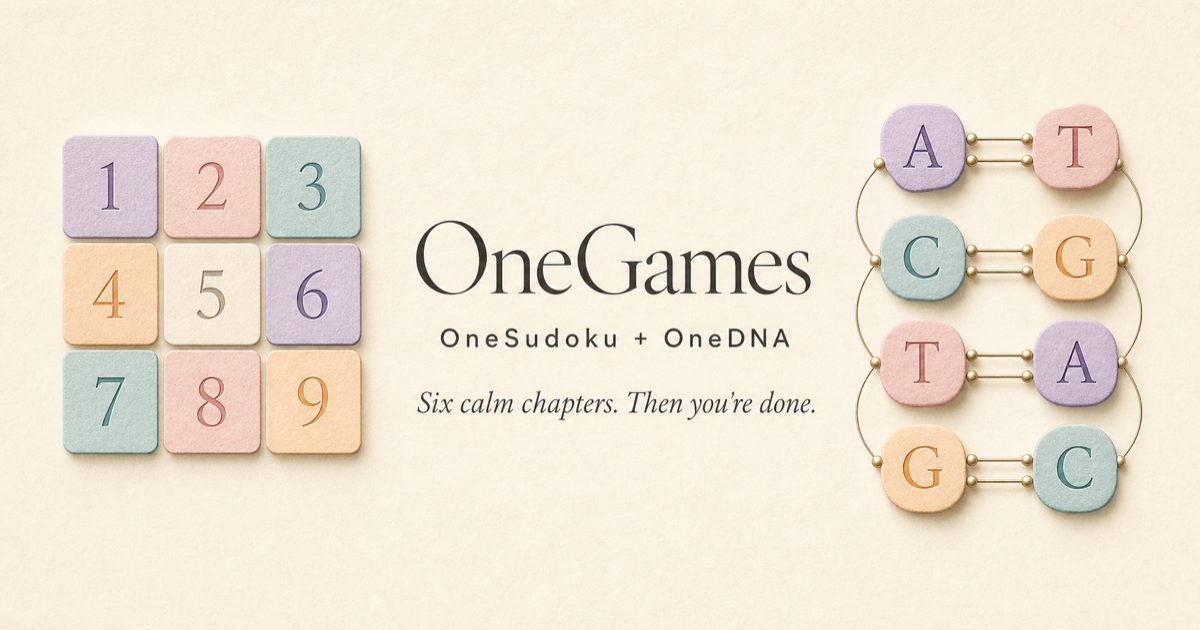
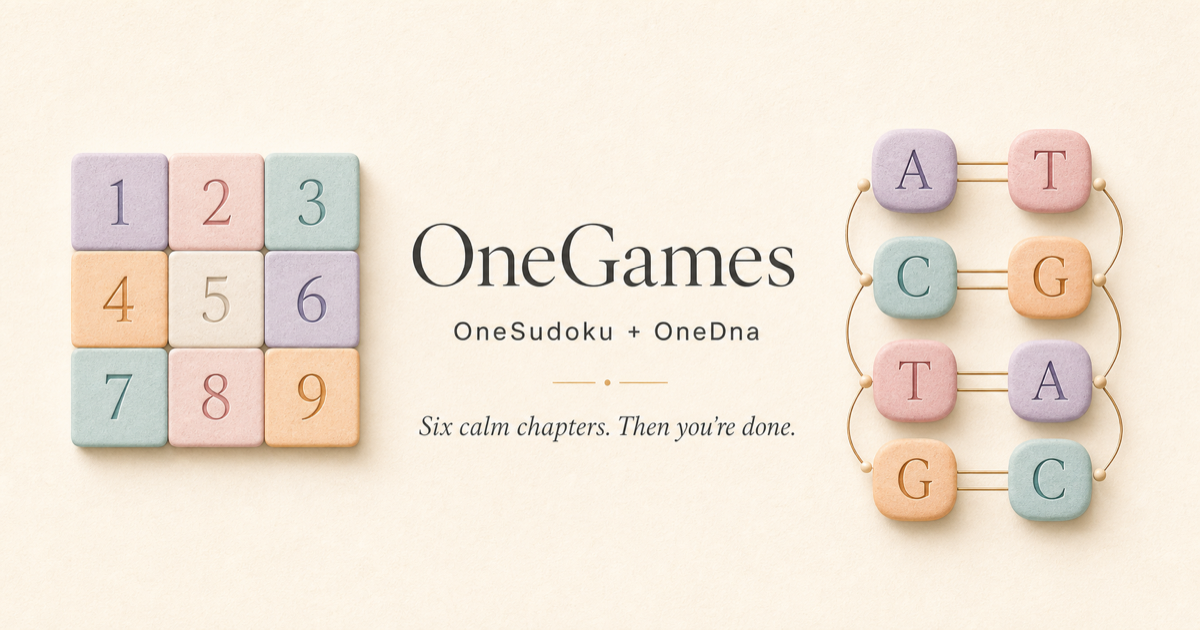
Rename OneDNA to OneDna

diff --git a/tests/dna-gameplay.spec.ts b/tests/dna-gameplay.spec.ts
@@ -12,11 +12,11 @@ test.beforeEach(async ({ page, context }) => {
   await page.goto("/dna");
 });
 
-test.describe("OneDNA game", () => {
+test.describe("OneDna game", () => {
   test("renders the 6x6 board and accessible bonds", async ({ page }) => {
-    await expect(page.getByRole("heading", { name: "OneDNA" })).toBeVisible();
+    await expect(page.getByRole("heading", { name: "OneDna" })).toBeVisible();
     await expect(
-      page.getByRole("grid", { name: "6 by 6 OneDNA board" }),
+      page.getByRole("grid", { name: "6 by 6 OneDna board" }),
     ).toBeVisible();
     await expect(page.locator("[data-cell]")).toHaveCount(36);
     await expect(page.locator(".dna-bonds path")).toHaveCount(5);
@@ -30,7 +30,7 @@ test.describe("OneDNA game", () => {
   test("renders Hard at 8x8 without horizontal overflow", async ({ page }) => {
     await page.getByRole("button", { name: "hard", exact: true }).click();
     await expect(
-      page.getByRole("grid", { name: "8 by 8 OneDNA board" }),
+      page.getByRole("grid", { name: "8 by 8 OneDna board" }),
     ).toBeVisible();
     await expect(page.locator("[data-cell]")).toHaveCount(64);
     expect(
@@ -121,7 +121,7 @@ test.describe("OneDNA game", () => {
     const index = Number(await empty.getAttribute("data-cell"));
     await empty.click();
     await page.keyboard.press("A");
-    await page.getByRole("button", { name: "Open OneDNA settings" }).click();
+    await page.getByRole("button", { name: "Open OneDna settings" }).click();
     await page.getByRole("switch", { name: "Reduce motion" }).click();
     await page.getByRole("button", { name: "Close settings" }).click();
     await page.reload();
@@ -194,8 +194,8 @@ test("the DNA access path returns to DNA", async ({ page, context }) => {
   await expect(page).toHaveURL(/\/dna$/);
 });
 
-test("homepage links directly to OneDNA", async ({ page }) => {
+test("homepage links directly to OneDna", async ({ page }) => {
   await page.goto("/");
-  await page.getByRole("link", { name: "Play OneDNA" }).click();
+  await page.getByRole("link", { name: "Play OneDna" }).click();
   await expect(page).toHaveURL(/\/dna/);
 });

diff --git a/components/dna/DnaGame.tsx b/components/dna/DnaGame.tsx
@@ -59,7 +59,7 @@ export function DnaGame({
   if (!game.hydrated)
     return (
       <main className="game-loading">
-        <span>OneDNA</span>
+        <span>OneDna</span>
         <p>Preparing today’s sequence…</p>
       </main>
     );
@@ -75,7 +75,7 @@ export function DnaGame({
             className="quiet-icon-link"
             type="button"
             onClick={() => setSettingsOpen(true)}
-            aria-label="Open OneDNA settings"
+            aria-label="Open OneDna settings"
           >
             <svg
               width="18"
@@ -107,7 +107,7 @@ export function DnaGame({
             <GameLogo game="dna" size={52} decorative />
             <div>
               <p className="caption">Daily puzzle · {formatLongDate(date)}</p>
-              <h1>OneDNA</h1>
+              <h1>OneDna</h1>
               <p className="dna-title-note">Find every perfect pair.</p>
             </div>
           </div>
@@ -145,7 +145,7 @@ export function DnaGame({
             {game.game.board.filter(Boolean).length}/{game.puzzle.size ** 2}
           </span>
         </div>
-        <section className="dna-rule-legend" aria-label="OneDNA rules">
+        <section className="dna-rule-legend" aria-label="OneDna rules">
           <span className="dna-rule-pairs">
             <i className="family-at" /> A–T <b>+</b> <i className="family-cg" />{" "}
             C–G balance
@@ -205,7 +205,7 @@ export function DnaGame({
         <p className="sr-only" aria-live="polite">
           {game.announcement}
         </p>
-        <nav className="game-subnav" aria-label="OneDNA navigation">
+        <nav className="game-subnav" aria-label="OneDna navigation">
           <Link href="/dna/archive">Archive</Link>
           <button type="button" onClick={() => setTutorialOpen(true)}>
             Rules

diff --git a/components/dna/DnaSettingsPanel.tsx b/components/dna/DnaSettingsPanel.tsx
@@ -31,7 +31,7 @@ export function DnaSettingsPanel({
         className="dna-modal settings-modal"
         role="dialog"
         aria-modal="true"
-        aria-label="OneDNA settings"
+        aria-label="OneDna settings"
       >
         <button
           className="modal-close"
@@ -70,7 +70,7 @@ export function DnaSettingsPanel({
           className="setting-action"
           type="button"
           onClick={() => {
-            if (confirm("Reset this OneDNA puzzle?")) {
+            if (confirm("Reset this OneDna puzzle?")) {
               onReset();
               onClose();
             }
@@ -84,7 +84,7 @@ export function DnaSettingsPanel({
           onClick={() => {
             if (
               confirm(
-                "Reset all OneDNA saves, settings, and statistics on this device? Sudoku data will stay untouched.",
+                "Reset all OneDna saves, settings, and statistics on this device? Sudoku data will stay untouched.",
               )
             ) {
               onResetAll();
@@ -92,7 +92,7 @@ export function DnaSettingsPanel({
             }
           }}
         >
-          Reset all OneDNA data
+          Reset all OneDna data
         </button>
       </section>
     </div>

diff --git a/components/dna/DnaCompletionPanel.tsx b/components/dna/DnaCompletionPanel.tsx
@@ -21,7 +21,7 @@ export function DnaCompletionPanel({
 }) {
   const modalRef = useModalFocus(open, onClose);
   if (!open) return null;
-  const share = `OneDNA ${game.date}\n${game.difficulty[0].toUpperCase()}${game.difficulty.slice(1)} · ${game.size}×${game.size} · ${time(game.elapsed)}\n${"◇".repeat(bondCount)} · ${game.mistakes} mistake${game.mistakes === 1 ? "" : "s"} · ${game.hints} hint${game.hints === 1 ? "" : "s"}`;
+  const share = `OneDna ${game.date}\n${game.difficulty[0].toUpperCase()}${game.difficulty.slice(1)} · ${game.size}×${game.size} · ${time(game.elapsed)}\n${"◇".repeat(bondCount)} · ${game.mistakes} mistake${game.mistakes === 1 ? "" : "s"} · ${game.hints} hint${game.hints === 1 ? "" : "s"}`;
   return (
     <div className="modal-backdrop">
       <section

diff --git a/app/page.tsx b/app/page.tsx
@@ -42,7 +42,7 @@ export default function HomePage() {
 
           <p className="lede reveal-item reveal-item-3">
             A calm pastel number mosaic and a colorful pairing puzzle. Six daily
-            chapters across OneSudoku and OneDNA — then you&rsquo;re done.
+            chapters across OneSudoku and OneDna — then you&rsquo;re done.
           </p>
 
           <div className="cta-row reveal-item reveal-item-4">
@@ -51,7 +51,7 @@ export default function HomePage() {
               className="pill-primary"
               aria-label="Play OneGames"
             >
-              Play OneSudoku + OneDNA
+              Play OneSudoku + OneDna
             </Link>
             <p className="note">
               $1 / month · Every game included · Cancel anytime

diff --git a/app/pricing/page.tsx b/app/pricing/page.tsx
@@ -7,7 +7,7 @@ import { SiteHeader } from "@/components/SiteHeader";
 export const metadata: Metadata = {
   title: "Pricing",
   description:
-    "One $1 monthly membership for OneSudoku, OneDNA, and every game in the OneGames family.",
+    "One $1 monthly membership for OneSudoku, OneDna, and every game in the OneGames family.",
 };
 
 export default function PricingPage() {
@@ -20,7 +20,7 @@ export default function PricingPage() {
           <ProductPair />
           <h1 className="display display-sm">One membership. Every game.</h1>
           <p className="lede">
-            OneSudoku and OneDNA, together every day. No ads, bundles, or
+            OneSudoku and OneDna, together every day. No ads, bundles, or
             complicated plans.
           </p>
 

diff --git a/tests/dna-persistence.test.ts b/tests/dna-persistence.test.ts
@@ -46,7 +46,7 @@ function game(): DnaGameSave {
     future: [],
   };
 }
-describe("OneDNA persistence", () => {
+describe("OneDna persistence", () => {
   let store: Map<string, string>;
   beforeEach(() => {
     store = storage();
@@ -73,7 +73,7 @@ describe("OneDNA persistence", () => {
     clearDnaGame(date, "easy");
     expect(store.get("onegames:v1:game:sudoku")).toBe("keep");
   });
-  it("reset all OneDNA data preserves Sudoku", () => {
+  it("reset all OneDna data preserves Sudoku", () => {
     store.set("onegames:v1:dna:test", "remove");
     store.set("onegames:v1:stats", "keep");
     clearAllDnaData();

diff --git a/tests/dna.test.ts b/tests/dna.test.ts
@@ -18,7 +18,7 @@ import type { DnaBoard, DnaPuzzle } from "../lib/dna/types";
 
 const easy = getDailyDnaPuzzle("2026-08-01", "easy");
 
-describe("OneDNA rules", () => {
+describe("OneDna rules", () => {
   it("maps complements and pair families", () => {
     expect([
       complement("A"),
@@ -80,7 +80,7 @@ describe("OneDNA rules", () => {
   });
 });
 
-describe("OneDNA solvers and bank", () => {
+describe("OneDna solvers and bank", () => {
   it("finds exactly one exact solution for a production puzzle", () => {
     const result = countSolutions([...easy.clues], easy, 2);
     expect(result.count).toBe(1);

diff --git a/app/globals.css b/app/globals.css
@@ -69,7 +69,7 @@
   color-scheme: light;
 }
 
-/* OneDNA — a warm, playful bond system inside the quiet OneGames shell. */
+/* OneDna — a warm, playful bond system inside the quiet OneGames shell. */
 :root {
   --dna-accent: #477b72;
   --dna-accent-soft: #e5efeb;
@@ -3887,7 +3887,7 @@ body,
   background: #e7f0ee;
 }
 
-/* OneDNA maps the four bases to the four accent families in the reference:
+/* OneDna maps the four bases to the four accent families in the reference:
    A violet, T rose, C teal, G apricot. Shape cues remain alongside colour. */
 .dna-page {
   --dna-accent: var(--pastel-teal-ink);

diff --git a/components/GameLogo.tsx b/components/GameLogo.tsx
@@ -25,7 +25,7 @@ export const GAME_PALETTE: Record<GameKey, Palette> = {
 
 export const GAME_LABEL: Record<GameKey, string> = {
   sudoku: "OneSudoku",
-  dna: "OneDNA",
+  dna: "OneDna",
 };
 
 const INK = "#1A1A1A";
@@ -98,7 +98,7 @@ function SudokuMark({ accent }: Palette) {
 }
 
 /**
- * The OneDNA bond seal.
+ * The OneDna bond seal.
  *
  * Four soft endpoints form two complementary pairs. Their mirrored paths meet
  * in the middle without becoming a literal laboratory helix: the mark now

diff --git a/components/ProductPair.tsx b/components/ProductPair.tsx
@@ -8,7 +8,7 @@ const PRODUCTS = [
   },
   {
     key: "dna" as const,
-    name: "OneDNA",
+    name: "OneDna",
     description: "Four colors. Perfect pairs.",
   },
 ] as const;
@@ -17,7 +17,7 @@ export function ProductPair({ className = "" }: { className?: string }) {
   return (
     <section
       className={`product-pair ${className}`.trim()}
-      aria-label="OneSudoku and OneDNA"
+      aria-label="OneSudoku and OneDna"
     >
       {PRODUCTS.map((product) => (
         <article

diff --git a/app/dna/archive/page.tsx b/app/dna/archive/page.tsx
@@ -51,7 +51,7 @@ export default function DnaArchivePage() {
       <SiteHeader back="/dna" backLabel="Game" />
       <main className="page-main is-reading">
         <div className="access-copy rise">
-          <h1 className="display display-sm">OneDNA archive.</h1>
+          <h1 className="display display-sm">OneDna archive.</h1>
           <p className="lede">
             Revisit the last 28 daily sequences. Each date keeps its own
             progress in this browser.
